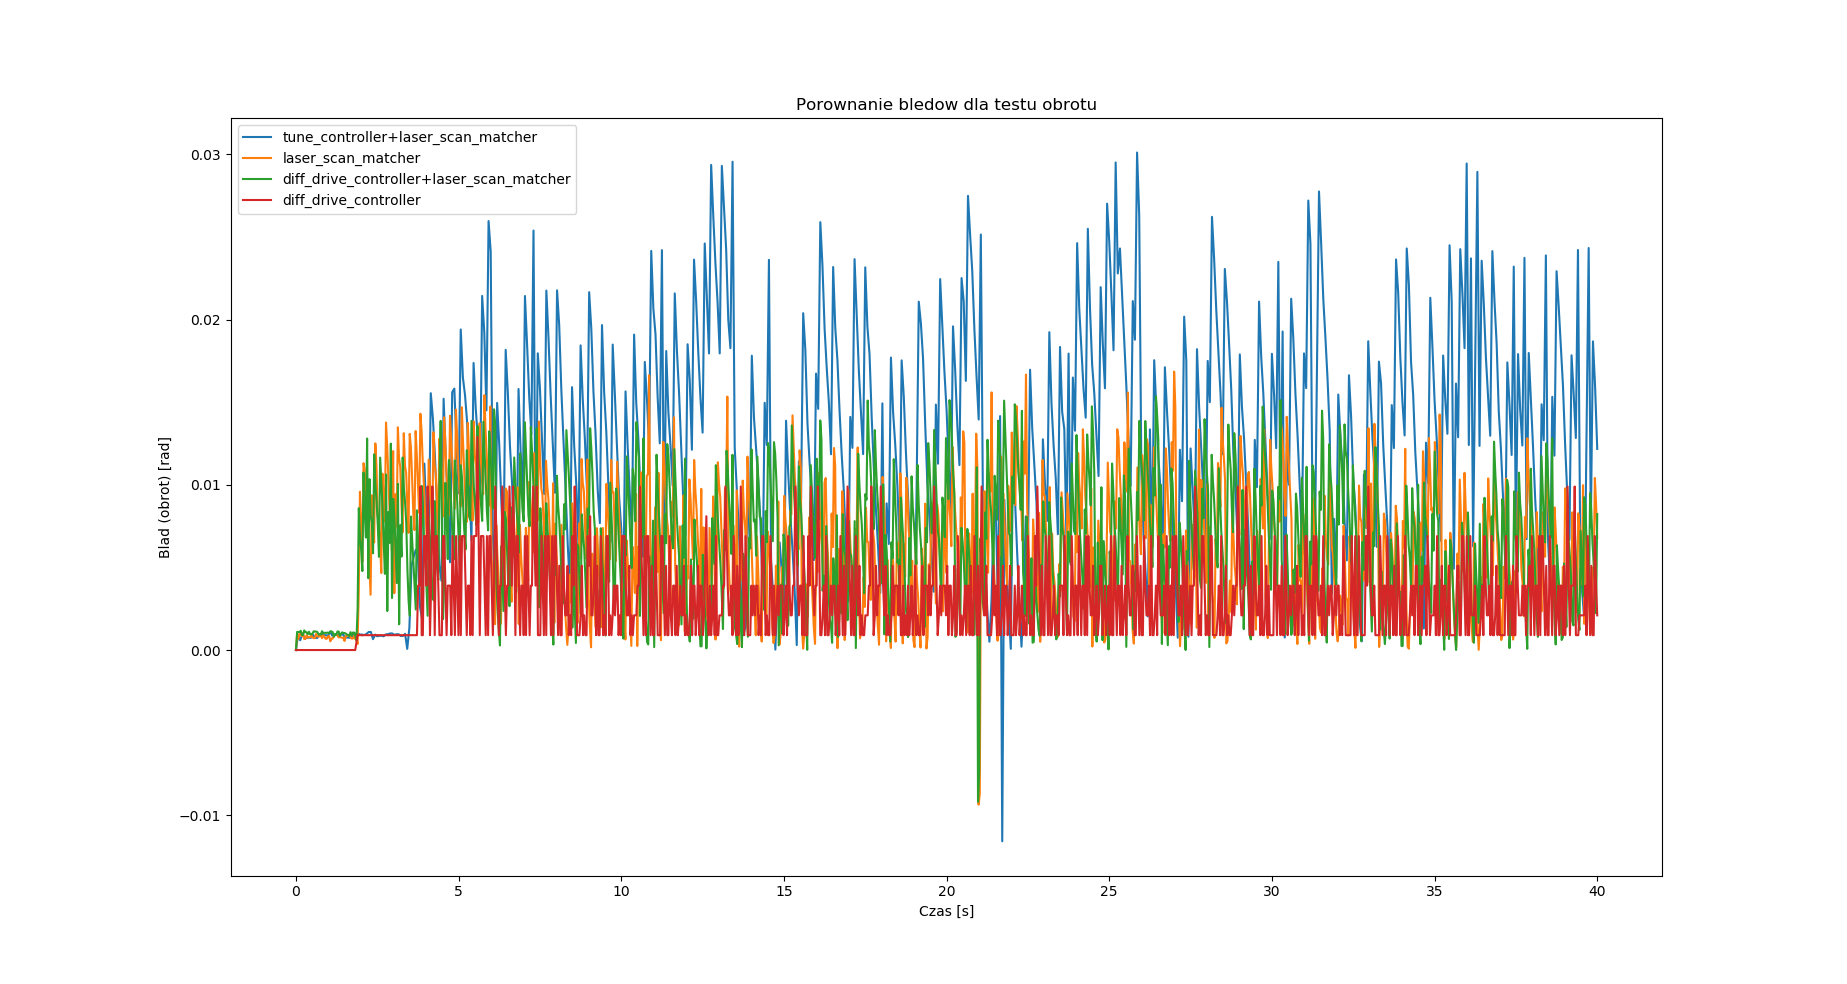
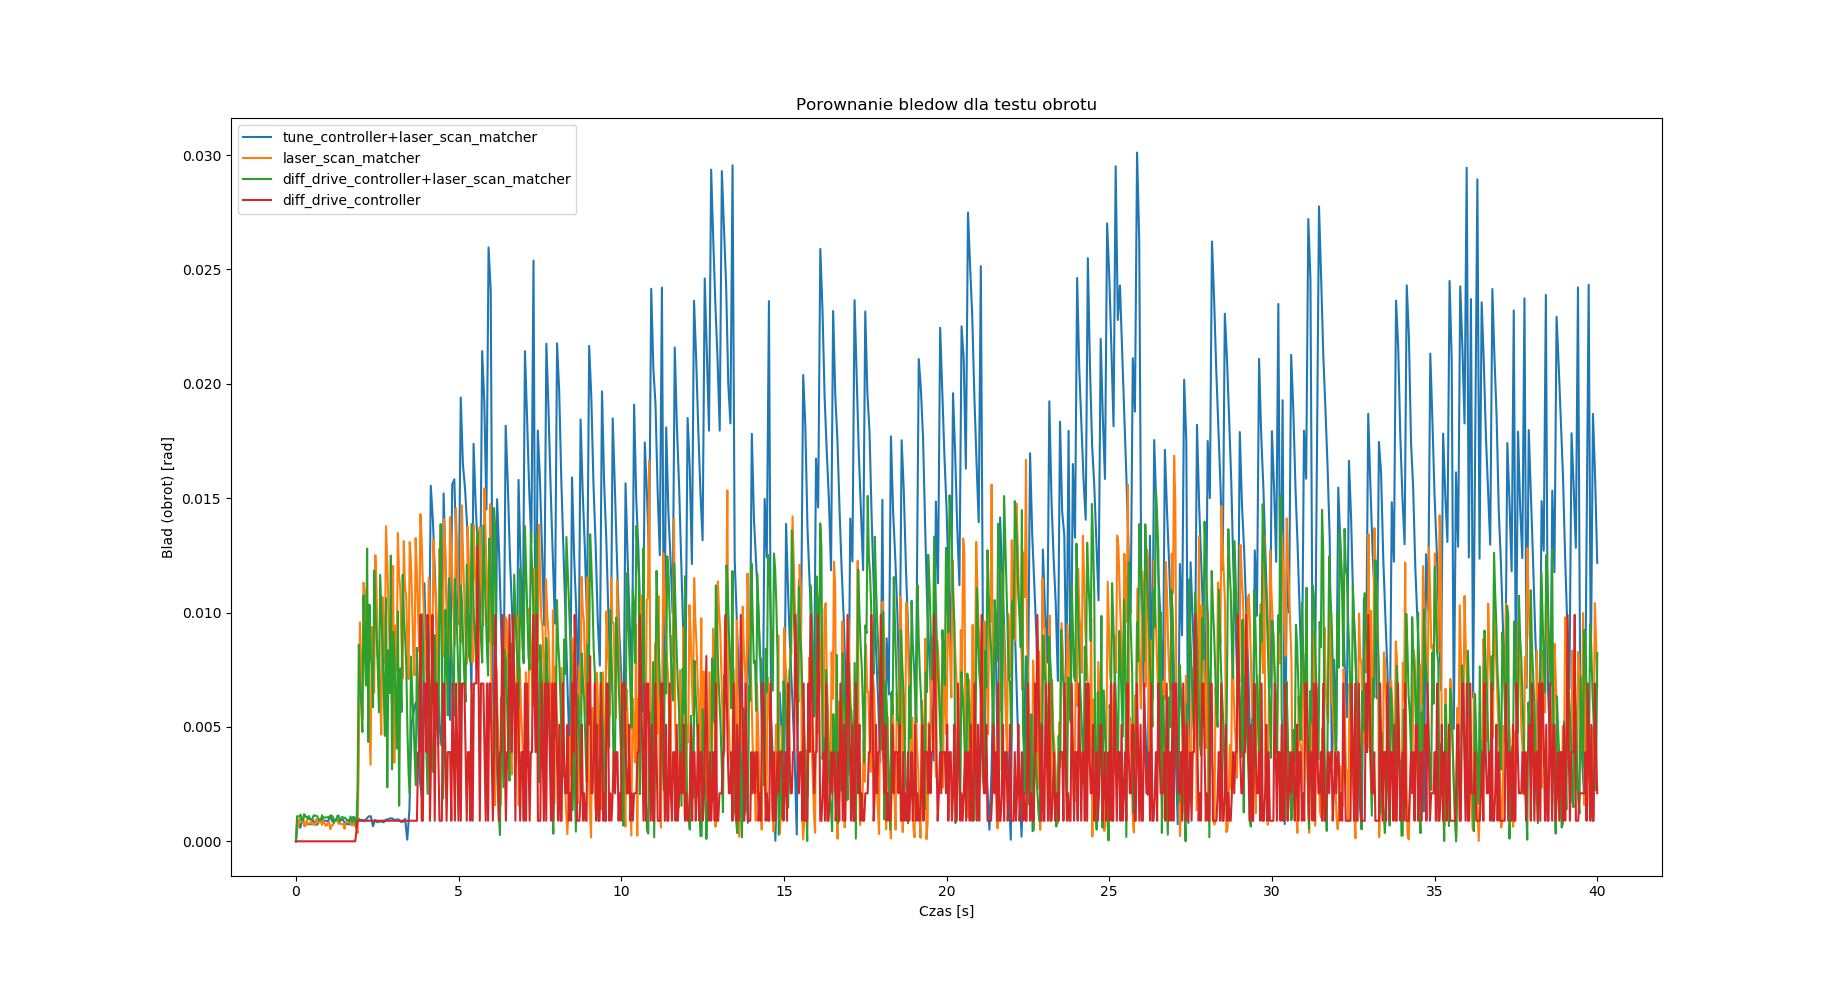
drobne poprawki

diff --git a/code/errorsSummary.py b/code/errorsSummary.py
@@ -40,11 +40,11 @@ laser_diff.close()
 laser_tune.close()
 
 plt.figure(1)
-#plt.plot(np.linspace(0, 20, len(laserTuneError)), laserTuneError, label='tune_controller+laser_scan_matcher')
-plt.plot(np.linspace(0, 20, len(tuneError)), tuneError, label='tune_controller')
-#plt.plot(np.linspace(0, 20, len(laserError)), laserError, label='laser_scan_matcher')
-#plt.plot(np.linspace(0, 20, len(laserDiffError)), laserDiffError, label='diff_drive_controller+laser_scan_matcher')
-#plt.plot(np.linspace(0, 20, len(diffError)), diffError, label='diff_drive_controller')
+plt.plot(np.linspace(0, 20, len(laserTuneError)), laserTuneError, label='tune_controller+laser_scan_matcher')
+#plt.plot(np.linspace(0, 20, len(tuneError)), tuneError, label='tune_controller')
+plt.plot(np.linspace(0, 20, len(laserError)), laserError, label='laser_scan_matcher')
+plt.plot(np.linspace(0, 20, len(laserDiffError)), laserDiffError, label='diff_drive_controller+laser_scan_matcher')
+plt.plot(np.linspace(0, 20, len(diffError)), diffError, label='diff_drive_controller')
 plt.xlabel('Czas [s]')
 plt.ylabel('Blad (odleglosc) [cm]')
 plt.title('Porownanie bledow dla testu linii')
@@ -92,24 +92,32 @@ laser_tune.close()
 
 for i in range(len(diffError)):
     diffError[i] += -2*math.pi if diffError[i] > math.pi else (2*math.pi if diffError[i] < -math.pi else 0)
+    if diffError[i] < 0:
+        diffError[i] = -diffError[i]
 for i in range(len(tuneError)):
     tuneError[i] += -2*math.pi if tuneError[i] > math.pi else (2*math.pi if tuneError[i] < -math.pi else 0)
     if tuneError[i] < 0:
         tuneError[i] = -tuneError[i]
 for i in range(len(laserError)):
     laserError[i] += -2*math.pi if laserError[i] > math.pi else (2*math.pi if laserError[i] < -math.pi else 0)
+    if laserError[i] < 0:
+        laserError[i] = -laserError[i]
 for i in range(len(laserDiffError)):
     laserDiffError[i] += -2*math.pi if laserDiffError[i] > math.pi else (2*math.pi if laserDiffError[i] < -math.pi else 0)
+    if laserDiffError[i] < 0:
+        laserDiffError[i] = -laserDiffError[i]
 for i in range(len(laserTuneError)):
     laserTuneError[i] += -2*math.pi if laserTuneError[i] > math.pi else (2*math.pi if laserTuneError[i] < -math.pi else 0)
+    if laserTuneError[i] < 0:
+        laserTuneError[i] = -laserTuneError[i]
 
 
 plt.figure(2)
-#plt.plot(np.linspace(0, 40, len(laserTuneError)), laserTuneError, label='tune_controller+laser_scan_matcher')
-plt.plot(np.linspace(0, 40, len(tuneError)), tuneError, label='tune_controller')
-#plt.plot(np.linspace(0, 40, len(laserError)), laserError, label='laser_scan_matcher')
-#plt.plot(np.linspace(0, 40, len(laserDiffError)), laserDiffError, label='diff_drive_controller+laser_scan_matcher')
-#plt.plot(np.linspace(0, 40, len(diffError)), diffError, label='diff_drive_controller')
+plt.plot(np.linspace(0, 40, len(laserTuneError)), laserTuneError, label='tune_controller+laser_scan_matcher')
+#plt.plot(np.linspace(0, 40, len(tuneError)), tuneError, label='tune_controller')
+plt.plot(np.linspace(0, 40, len(laserError)), laserError, label='laser_scan_matcher')
+plt.plot(np.linspace(0, 40, len(laserDiffError)), laserDiffError, label='diff_drive_controller+laser_scan_matcher')
+plt.plot(np.linspace(0, 40, len(diffError)), diffError, label='diff_drive_controller')
 plt.xlabel('Czas [s]')
 plt.ylabel('Blad (obrot) [rad]')
 plt.title('Porownanie bledow dla testu obrotu')
@@ -157,11 +165,11 @@ laser_tune.close()
 
 
 plt.figure(1)
-#plt.plot(np.linspace(0, 50, len(laserTuneError)), laserTuneError, label='tune_controller+laser_scan_matcher')
-plt.plot(np.linspace(0, 50, len(tuneError)), tuneError, label='tune_controller')
-#plt.plot(np.linspace(0, 50, len(laserError)), laserError, label='laser_scan_matcher')
-#plt.plot(np.linspace(0, 50, len(laserDiffError)), laserDiffError, label='diff_drive_controller+laser_scan_matcher')
-#plt.plot(np.linspace(0, 50, len(diffError)), diffError, label='diff_drive_controller')
+plt.plot(np.linspace(0, 50, len(laserTuneError)), laserTuneError, label='tune_controller+laser_scan_matcher')
+#plt.plot(np.linspace(0, 50, len(tuneError)), tuneError, label='tune_controller')
+plt.plot(np.linspace(0, 50, len(laserError)), laserError, label='laser_scan_matcher')
+plt.plot(np.linspace(0, 50, len(laserDiffError)), laserDiffError, label='diff_drive_controller+laser_scan_matcher')
+plt.plot(np.linspace(0, 50, len(diffError)), diffError, label='diff_drive_controller')
 plt.xlabel('Czas [s]')
 plt.ylabel('Blad (odleglosc) [cm]')
 plt.title('Porownanie bledow dla testu kwadratu')

diff --git a/code/wykresy.py b/code/wykresy.py
@@ -1,7 +1,7 @@
 import matplotlib.pyplot as plt
 import rosbag
 
-test_kwadratu = True
+test_kwadratu = False
 bag = rosbag.Bag('../tuneTL.bag')
 print bag.get_message_count()
 x_gazebo = []
@@ -36,7 +36,7 @@ else:
 plt.xlabel('Polozenie w osi X')
 plt.ylabel('Polozenie w osi Y')
 
-plt.legend(loc='center')
+plt.legend(loc='lower right')
 plt.show()
 
 
